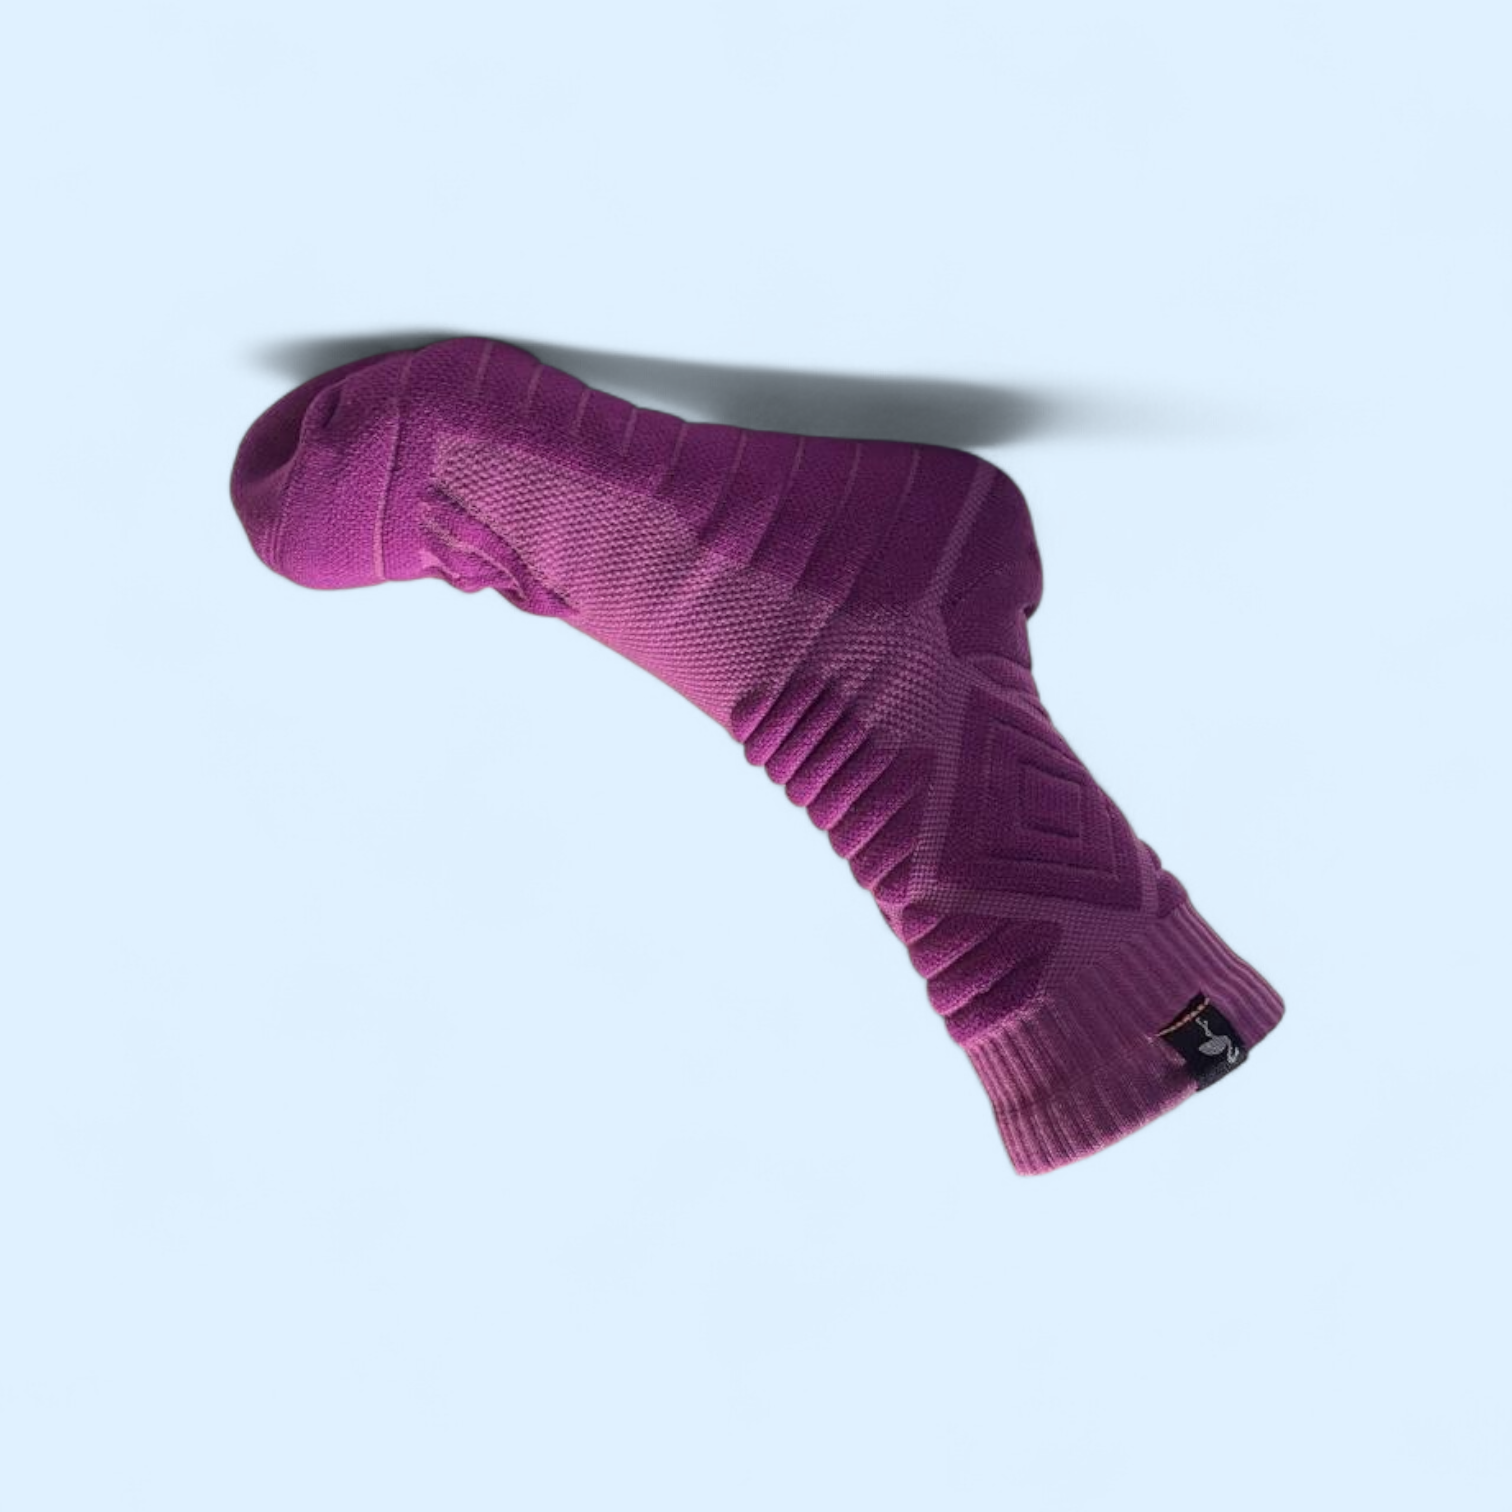
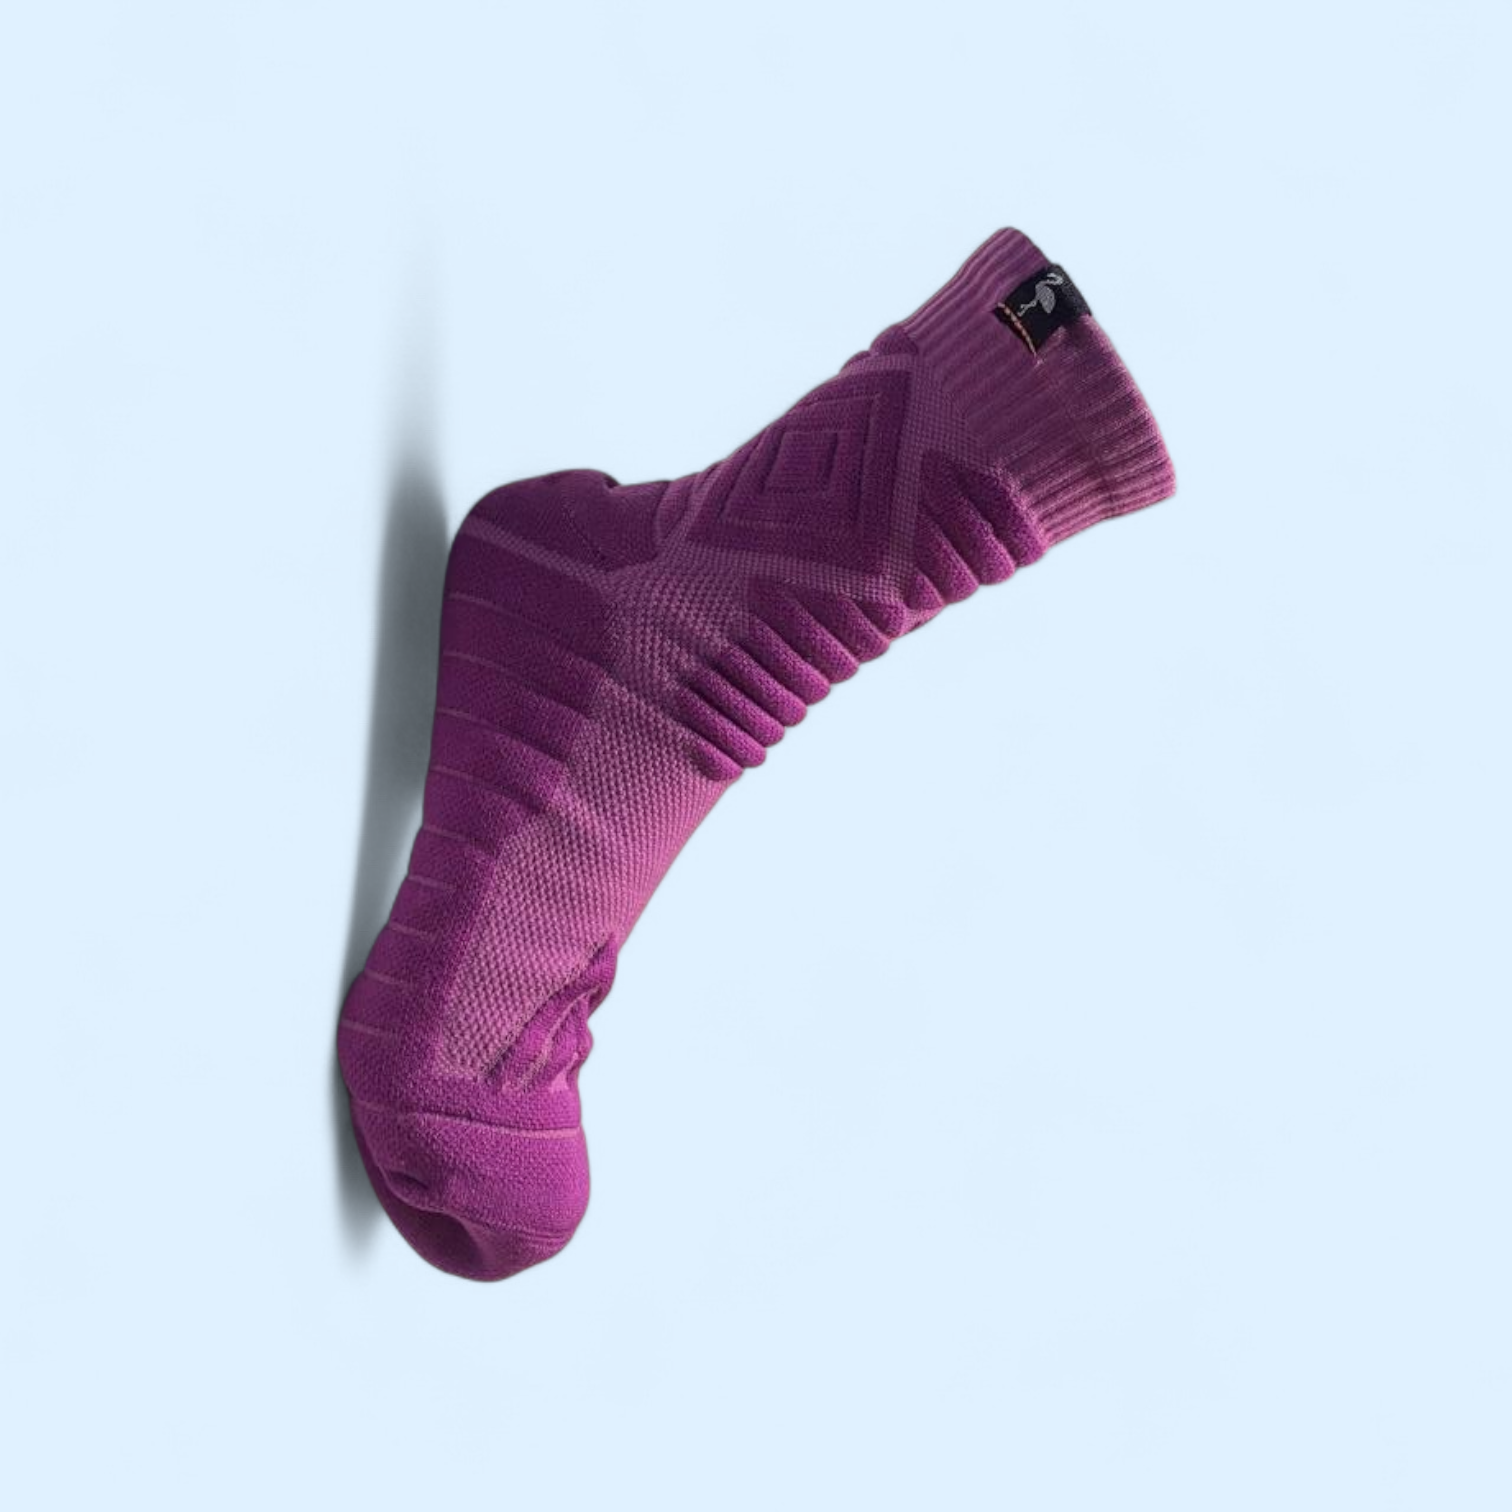
Corrige rotaciones home y agrega links en tarjetas de colección
- car-dfm1783.jpg rotado -90° (izquierda) — estaba de lado en el carrusel
- col-morado.png rotado -90° (izquierda) — pie apuntaba hacia arriba
- 8 tarjetas de colección en home ahora son links a producto.html?id=...

Changed region(s): [[0.1243, 0.1243, 0.8704, 0.8704]]

diff --git a/index.html b/index.html
@@ -143,7 +143,7 @@ nav{
 .products-grid{
   display:grid;grid-template-columns:repeat(4,1fr);gap:16px;
 }
-.product-card{background:white;border-radius:4px;overflow:hidden;cursor:pointer;transition:transform .25s,box-shadow .25s;}
+.product-card{display:block;background:white;border-radius:4px;overflow:hidden;cursor:pointer;transition:transform .25s,box-shadow .25s;color:inherit;text-decoration:none;}
 .product-card:hover{transform:translateY(-4px);box-shadow:0 16px 40px rgba(0,0,0,.12);}
 .product-img{aspect-ratio:1/1;overflow:hidden;}
 .product-img img{transition:transform .5s;}
@@ -364,62 +364,62 @@ footer{background:var(--navy2);padding:48px 6vw 28px;}
   <p class="section-p"><strong>Cinco</strong> modelos, <strong>tres</strong> tamaños, <strong>trece</strong> colores.<br><strong>Un</strong> solo estándar técnico.<br>Zonas de amortiguación, compresión en el arco, y ventilación activa.</p>
 
   <div class="products-grid" style="margin-top:40px;">
-    <div class="product-card">
+    <a class="product-card" href="producto.html?id=tatio-turquesa">
       <div class="product-img" style="background:#e8f4f8;"><img src="images/col-calipso.png" alt="Tatio Calipso" loading="lazy" style="object-fit:contain;padding:12px;"></div>
       <div class="product-info">
         <div class="product-name">Tatio</div>
         <div class="product-color">Calipso</div>
       </div>
-    </div>
-    <div class="product-card">
+    </a>
+    <a class="product-card" href="producto.html?id=artemia-pink">
       <div class="product-img" style="background:#e8f4f8;"><img src="images/col-pink.jpg" alt="Artemia Pink" loading="lazy" style="object-fit:contain;padding:12px;"></div>
       <div class="product-info">
         <div class="product-name">Artemia</div>
         <div class="product-color">Pink</div>
       </div>
-    </div>
-    <div class="product-card">
+    </a>
+    <a class="product-card" href="producto.html?id=mamalluca-lila">
       <div class="product-img" style="background:#e8f4f8;"><img src="images/col-lila.jpg" alt="Mamalluca Lila" loading="lazy" style="object-fit:contain;padding:12px;"></div>
       <div class="product-info">
         <div class="product-name">Mamalluca</div>
         <div class="product-color">Lila</div>
       </div>
-    </div>
-    <div class="product-card">
+    </a>
+    <a class="product-card" href="producto.html?id=mamalluca-morado">
       <div class="product-img" style="background:#e8f4f8;"><img src="images/col-morado.png" alt="Mamalluca Morado" loading="lazy" style="object-fit:contain;padding:12px;"></div>
       <div class="product-info">
         <div class="product-name">Mamalluca</div>
         <div class="product-color">Morado</div>
       </div>
-    </div>
-    <div class="product-card">
+    </a>
+    <a class="product-card" href="producto.html?id=artemia-gris">
       <div class="product-img" style="background:#e8f4f8;"><img src="images/col-gris.jpg" alt="Artemia Gris" loading="lazy" style="object-fit:contain;padding:12px;"></div>
       <div class="product-info">
         <div class="product-name">Artemia</div>
         <div class="product-color">Gris</div>
       </div>
-    </div>
-    <div class="product-card">
+    </a>
+    <a class="product-card" href="producto.html?id=artemia-blanco">
       <div class="product-img" style="background:#e8f4f8;"><img src="images/col-whiteblue.png" alt="Artemia White Blue" loading="lazy" style="object-fit:contain;padding:12px;"></div>
       <div class="product-info">
         <div class="product-name">Artemia</div>
         <div class="product-color">White Blue</div>
       </div>
-    </div>
-    <div class="product-card">
+    </a>
+    <a class="product-card" href="producto.html?id=tamarugal-navy">
       <div class="product-img" style="background:#e8f4f8;"><img src="images/col-navy2.png" alt="Tamarugal Navy" loading="lazy" style="object-fit:contain;padding:12px;"></div>
       <div class="product-info">
         <div class="product-name">Tamarugal</div>
         <div class="product-color">Navy</div>
       </div>
-    </div>
-    <div class="product-card">
+    </a>
+    <a class="product-card" href="producto.html?id=tamarugal-blanco">
       <div class="product-img" style="background:#e8f4f8;"><img src="images/col-blanco2.png" alt="Tamarugal Blanco" loading="lazy" style="object-fit:contain;padding:12px;"></div>
       <div class="product-info">
         <div class="product-name">Tamarugal</div>
         <div class="product-color">Blanco</div>
       </div>
-    </div>
+    </a>
   </div>
   <div class="products-cta">
     <a href="productos.html" class="btn btn-coral">Ver todos los productos</a>
